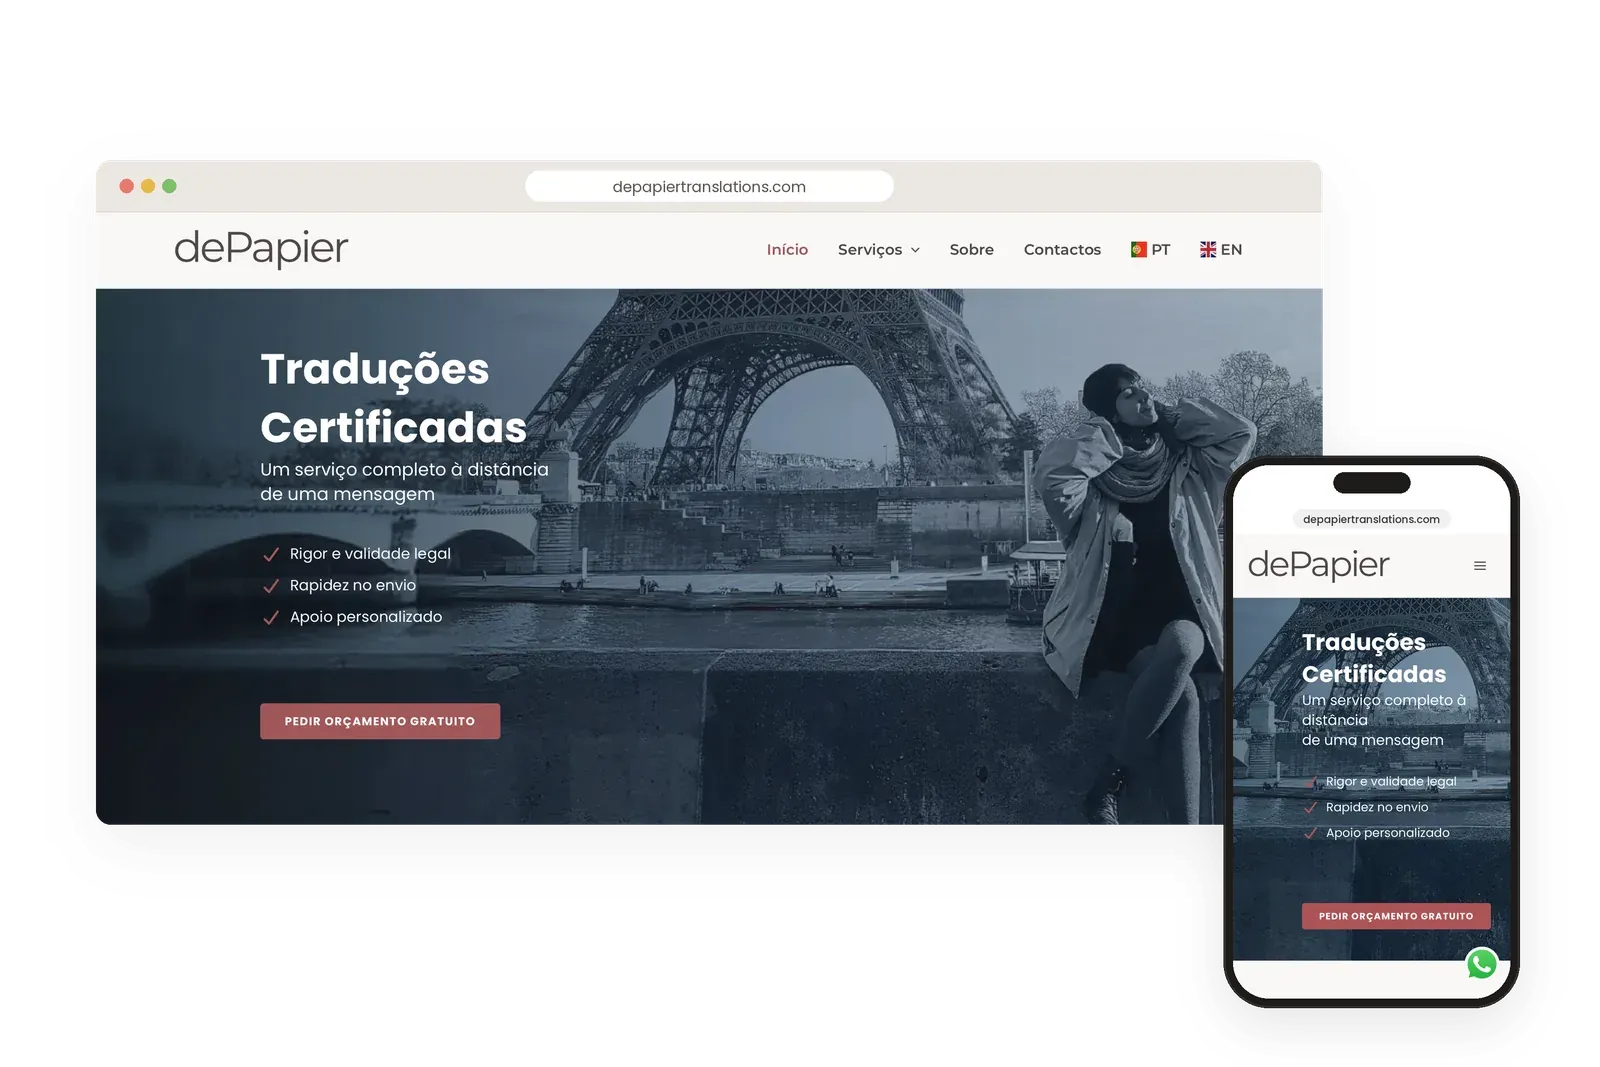
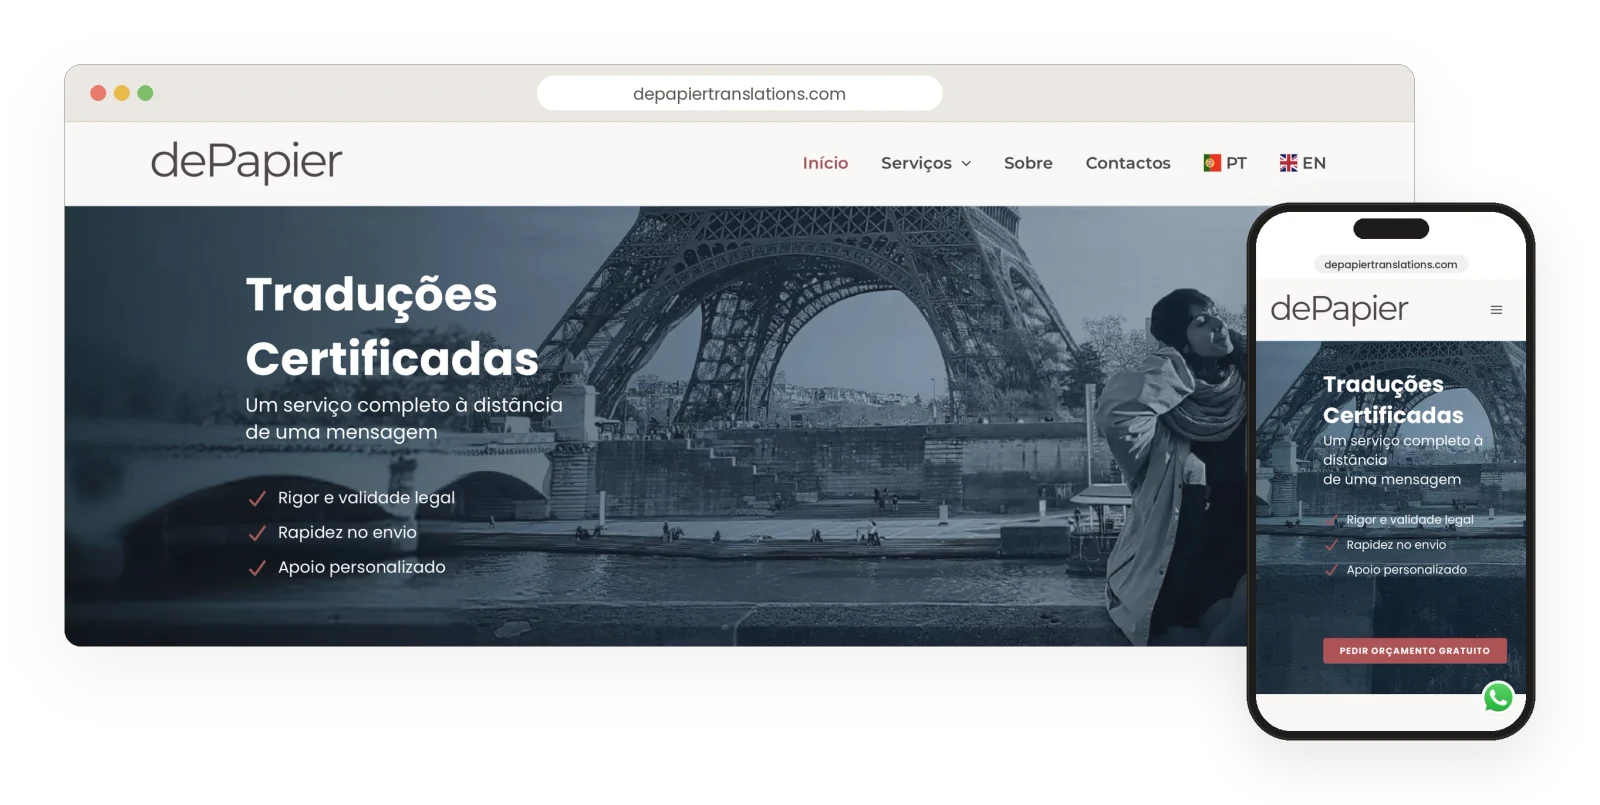
dePapier: tighter homepage mockups, resized to 1600px like the others

diff --git a/src/i18n/pt/portfolioDePapier.ts b/src/i18n/pt/portfolioDePapier.ts
@@ -21,7 +21,7 @@ const pt: typeof en = {
     overview: "Uma casa nova para uma tradutora certificada que geria o negócio a partir de uma página gratuita no Google Sites: domínio próprio, uma identidade coerente e um site em português e inglês.",
 
     siteTitle: "O site",
-    site: { src: `${IMG}depapier-desktop-mobile-hero-transparent.webp`, width: 1600, height: 1067, alt: "A página inicial da dePapier Translations no computador e no telemóvel", caption: "PÁGINA INICIAL · COMPUTADOR E TELEMÓVEL" },
+    site: { src: `${IMG}depapier-desktop-mobile-hero-transparent.webp`, width: 1600, height: 805, alt: "A página inicial da dePapier Translations no computador e no telemóvel", caption: "PÁGINA INICIAL · COMPUTADOR E TELEMÓVEL" },
 
     pagesTitle: "Páginas principais",
     pages: [

diff --git a/src/i18n/en/portfolioDePapier.ts b/src/i18n/en/portfolioDePapier.ts
@@ -19,7 +19,7 @@ const en = {
     overview: "A new home for a certified translator who was running her business from a free Google Sites page: her own domain, one consistent identity and a site in Portuguese and English.",
 
     siteTitle: "The site",
-    site: { src: `${IMG}depapier-en-desktop-mobile-hero-transparent.webp`, width: 1600, height: 1001, alt: "dePapier Translations homepage on desktop and mobile", caption: "HOMEPAGE · DESKTOP AND MOBILE" },
+    site: { src: `${IMG}depapier-en-desktop-mobile-hero-transparent.webp`, width: 1600, height: 805, alt: "dePapier Translations homepage on desktop and mobile", caption: "HOMEPAGE · DESKTOP AND MOBILE" },
 
     pagesTitle: "Key pages",
     pages: [

diff --git a/src/i18n/pt/caseStudyDePapier.ts b/src/i18n/pt/caseStudyDePapier.ts
@@ -75,7 +75,7 @@ const pt: typeof en = {
     ctaButton: "Marcar uma conversa gratuita",
 
     heroImage: "/projects/depapier/depapier-desktop-mobile-hero-transparent.webp",
-    heroSize: [1600, 1067],
+    heroSize: [1600, 805],
     quotesImage: "/projects/depapier/depapier-desktop-quote-factors-transparent.webp",
     quotesSize: [1600, 823],
     ogImage: "/og/og-case-study-depapier-pt.png",

diff --git a/src/i18n/en/caseStudyDePapier.ts b/src/i18n/en/caseStudyDePapier.ts
@@ -74,7 +74,7 @@ const en = {
     ctaButton: "Book a free call",
 
     heroImage: "/projects/depapier/depapier-en-desktop-mobile-hero-transparent.webp",
-    heroSize: [1600, 1001],
+    heroSize: [1600, 805],
     quotesImage: "/projects/depapier/depapier-en-desktop-quote-factors-transparent.webp",
     quotesSize: [1600, 751],
     ogImage: "/og/og-case-study-depapier.png",
